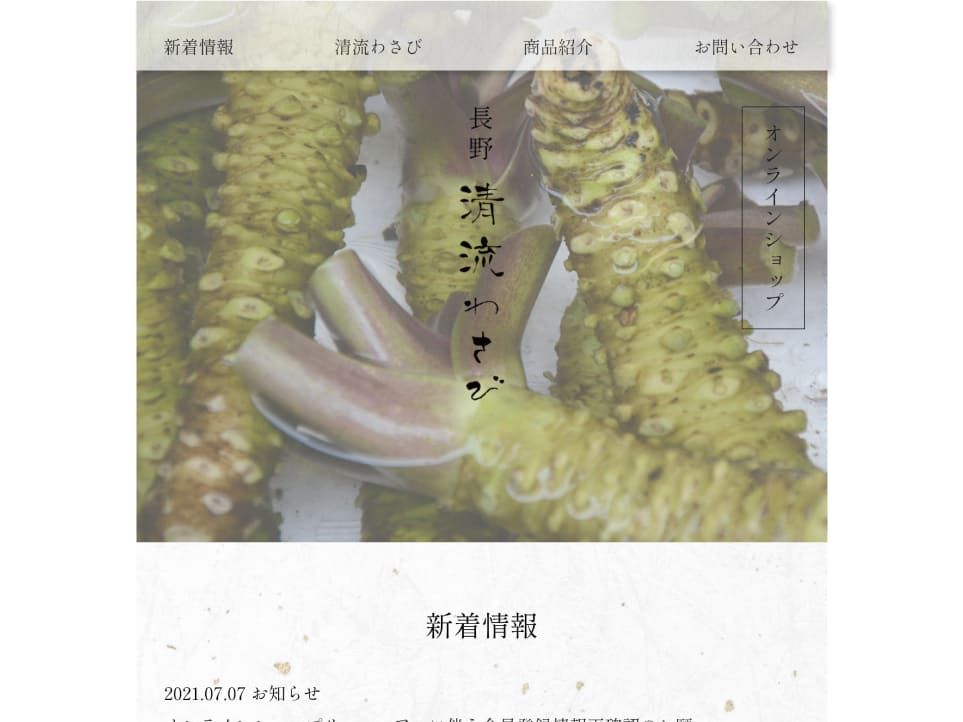
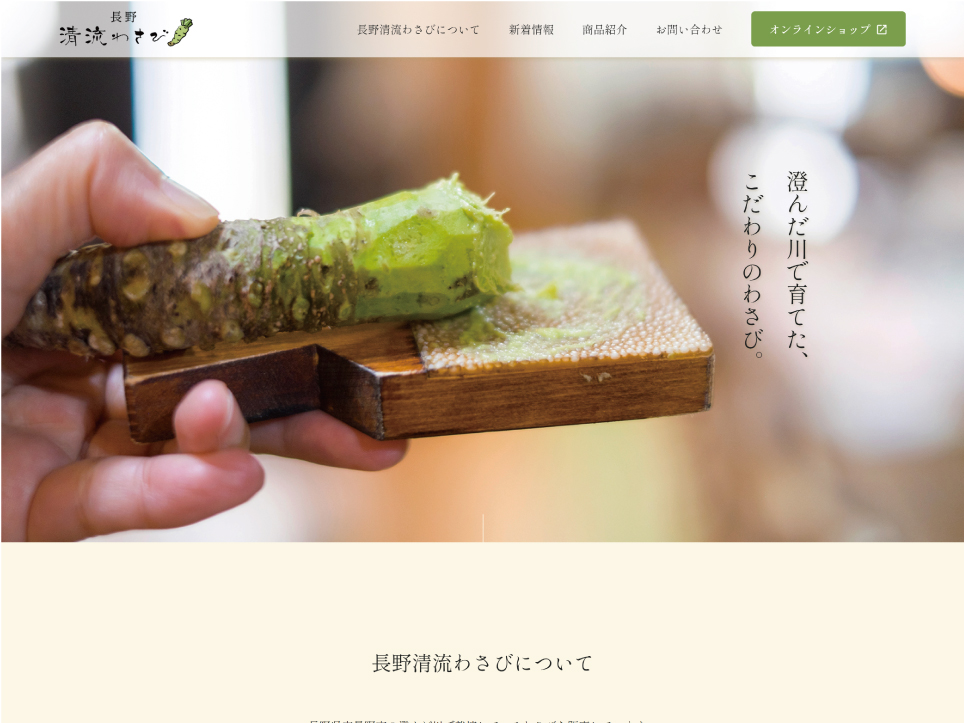
wasabiサイトを作り直しました。

diff --git a/works/wasabi.html b/works/wasabi.html
@@ -103,28 +103,28 @@
         <h2 class="c-title__en">WORKS</h2>
         <div class="c-title__ja fade__bottom">実績</div>
         <h3 class="c-subtitle">
-          <!--<a href="http://ty1006.starfree.jp/wasabi/index.html" target="_blank" rel="noopener noreferrer">-->
+          <a href="https://takahashi1006.github.io/naganoseiryuwasabi/" target="_blank" rel="noopener noreferrer">
             長野清流わさび
-          <!--</a>-->
+          </a>
         </h3>
         <div class="p-worksdetails__url">
         </div>
         <div class="c-slickbig fade2">
           <ul class="c-slickbig__slider">
             <li class="c-slickbig__slick__img">
-              <!--<a href="http://ty1006.starfree.jp/wasabi/index.html" target="_blank" rel="noopener noreferrer">-->
+              <a href="https://takahashi1006.github.io/naganoseiryuwasabi/" target="_blank" rel="noopener noreferrer">
                 <img src="../assets/images/wasabi1.jpg" width="963" height="722" alt="" />
-              <!--</a>-->
+              </a>
             </li>
             <li class="c-slickbig__slick__img">
-              <!--<a href="http://ty1006.starfree.jp/wasabi/index.html" target="_blank" rel="noopener noreferrer">-->
+              <a href="https://takahashi1006.github.io/naganoseiryuwasabi/" target="_blank" rel="noopener noreferrer">
                 <img src="../assets/images/wasabi2.jpg" width="963" height="722" alt="" />
-              <!--</a>-->
+              </a>
             </li>
             <li class="c-slickbig__slick__img">
-              <!--<a href="http://ty1006.starfree.jp/wasabi/index.html" target="_blank" rel="noopener noreferrer">-->
+              <a href="https://takahashi1006.github.io/naganoseiryuwasabi/" target="_blank" rel="noopener noreferrer">
                   <img src="../assets/images/wasabi3.jpg" width="963" height="722" alt="" />
-              <!--</a>-->
+              </a>
             </li>
           </ul>
         </div>
@@ -140,19 +140,15 @@
         <div class="p-worksdetails__list">
           <dl>
             <dt>SCOPE</dt>
-            <dd>SITE DESIGN / ILLUSTRATION <!-- / CODING-->
-            </dd>
+            <dd>SITE DESIGN / ILLUSTRATION / CODING / RESPONSIVE</dd>
             <dt>TOOLS</dt>
-            <dd>PHOTOSHOP / ILLUSTRATOR <!-- / DREAMWEAVER-->
-            </dd>
+            <dd>PHOTOSHOP / ILLUSTRATOR / XD / VISUAL STUDIO CODE</dd>
             <dt>CLIENT</dt>
             <dd>長野特産品推進協会様</dd>
-            <!--
               <dt>SITE</dt>
               <dd>
-                <a href="http://ty1006.starfree.jp/wasabi/index.html" target="_blank" rel="noopener noreferrer">長野清流わさび</a>
+                <a href="https://takahashi1006.github.io/naganoseiryuwasabi/" target="_blank" rel="noopener noreferrer">長野清流わさび</a>
               </dd>
-            -->
           </dl>
         </div>
       </section>
